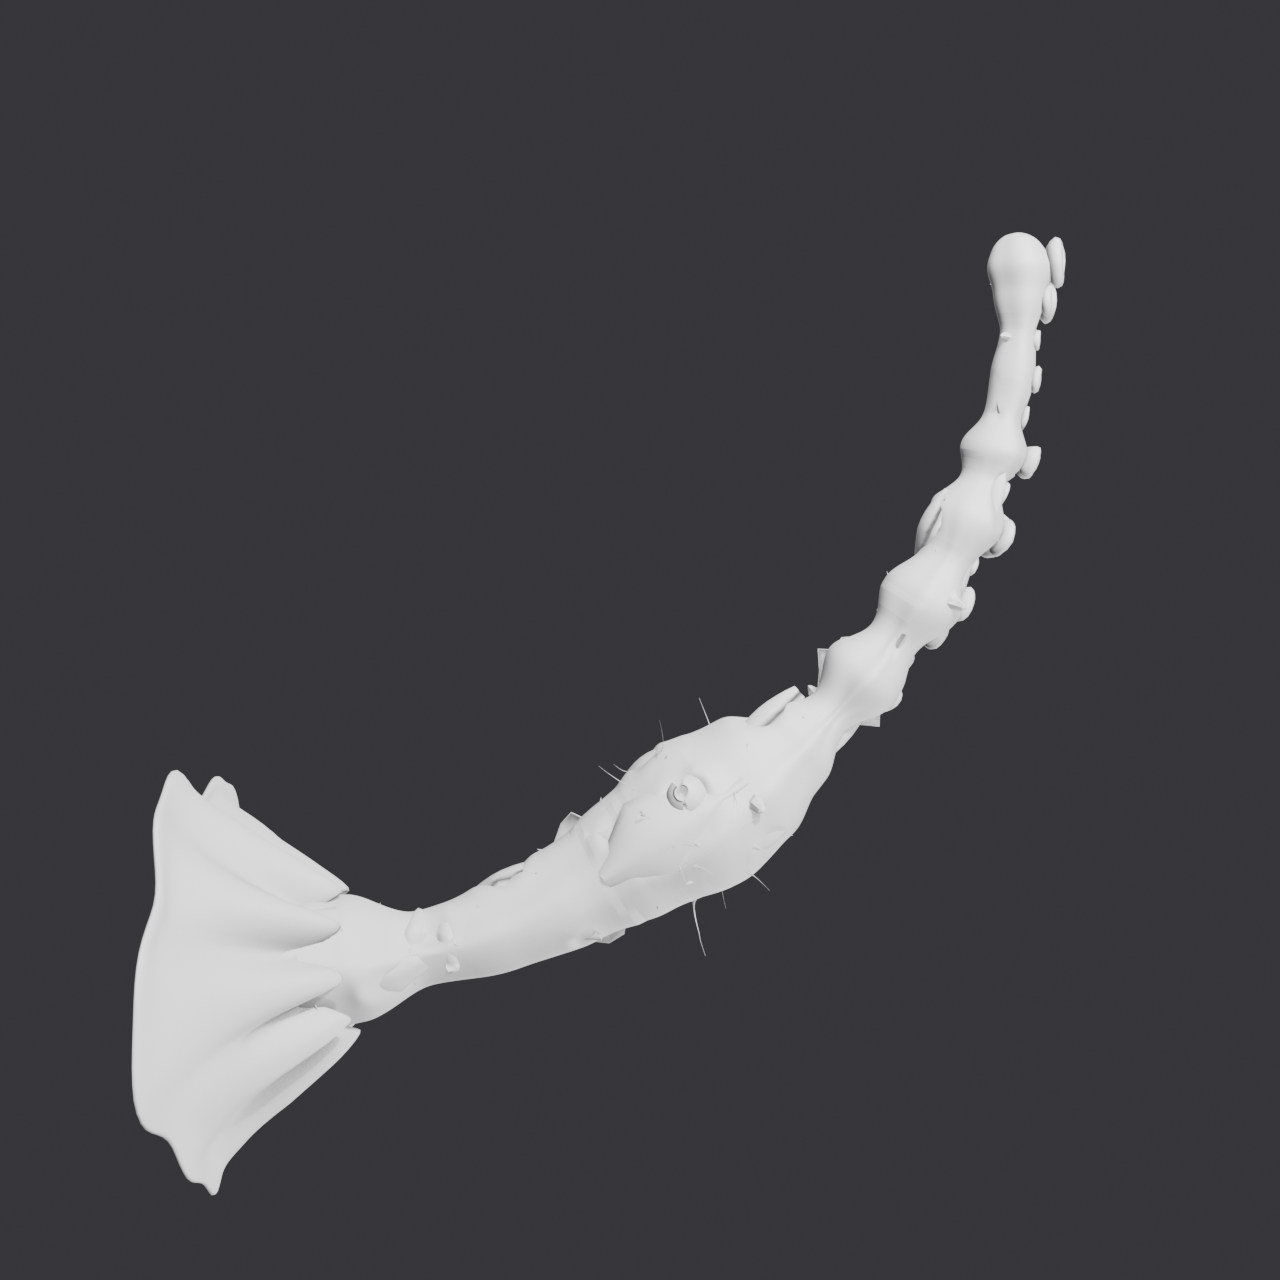
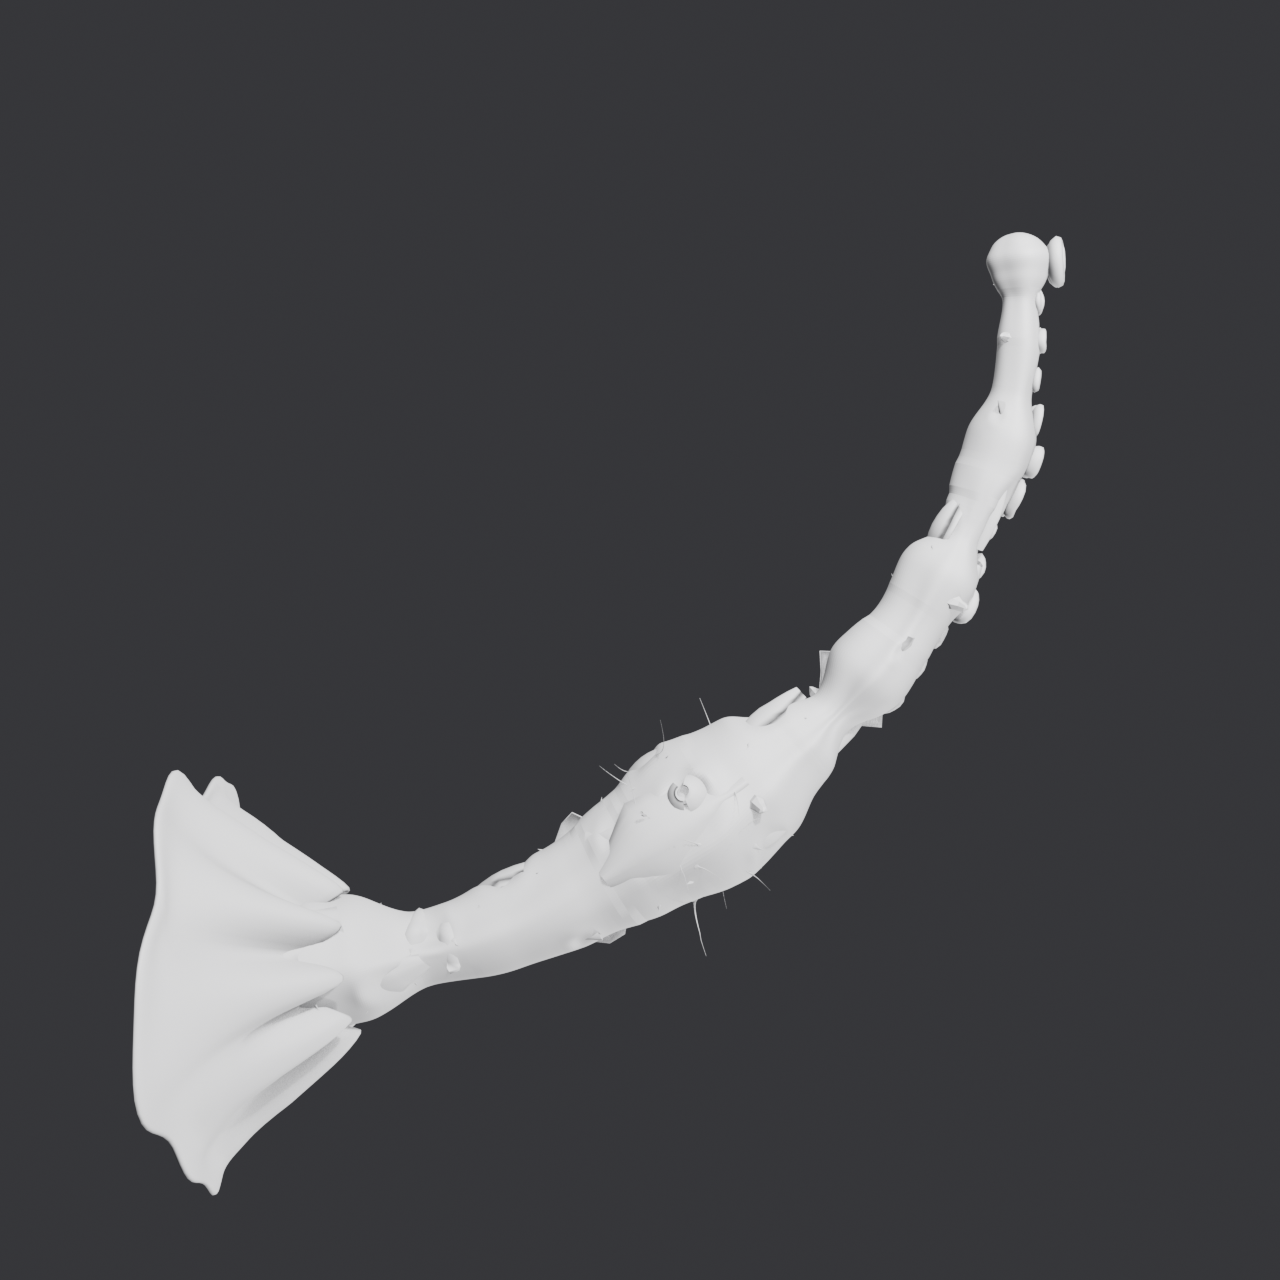
Re-author the distal third so it stops reading as a bead stack
The posed grey test showed the last third of the limb as a row of
discrete beads rather than flesh. The cause was not a sculpt pass but the
profile table itself: from v 0.56 to 0.85 it ran pinch/swell/pinch/swell
six times at even spacing and near-identical amplitude -- a regular
corrugation, which is the exact thing sculpt_forms() warns against two
hundred lines further down the same file.

Same feature count, but the spacing and the depth now vary widely: one
real narrow, one knuckle, and everything else a modulation of the taper.
The silhouette reads as root flare, ocular mass, tapering shaft, club.

diff --git a/art/blender/scripts/build_dream_tentacle.py b/art/blender/scripts/build_dream_tentacle.py
@@ -57,19 +57,25 @@ PROFILE = [
     (0.470, 0.092, 0.16, -0.10, 0.60),  # its shoulder falling away
     (0.520, 0.064, 0.30, -0.02, 0.70),
     (0.560, 0.038, 0.58, 0.02, 0.82),   # the flattened RIBBON: a real pinch
-    (0.600, 0.058, 0.30, 0.05, 0.90),   # and the swell after it
-    (0.640, 0.036, 0.40, 0.02, 0.99),   # ribbed: pinch
-    (0.680, 0.057, 0.20, -0.02, 1.07),  #         swell
-    (0.720, 0.034, 0.34, 0.02, 1.16),   #         pinch
-    (0.758, 0.053, 0.16, -0.03, 1.24),  #         swell
-    (0.792, 0.030, 0.26, 0.02, 1.32),   # the knuckle's waist
-    (0.818, 0.048, 0.10, -0.04, 1.38),  # the knuckle
-    (0.848, 0.026, 0.18, 0.02, 1.44),   # the narrowing: dexterous
-    (0.884, 0.030, 0.08, 0.00, 1.50),
-    (0.918, 0.024, 0.12, 0.00, 1.55),
-    (0.948, 0.036, 0.05, -0.03, 1.60),  # the club begins
-    (0.972, 0.046, 0.02, -0.05, 1.63),  # the sensory CLUB, flared
-    (0.990, 0.034, 0.00, 0.00, 1.65),
+    # THE DISTAL THIRD, RE-AUTHORED. It used to run pinch/swell/pinch/swell
+    # six times at even spacing and near-identical amplitude, which is a
+    # regular corrugation -- the exact thing sculpt_forms() warns against two
+    # hundred lines below -- and in the posed grey test it read as a STACK OF
+    # BEADS rather than flesh. Same number of features, but the spacing and
+    # the depth now vary a lot: one real narrow, one knuckle, and everything
+    # else a modulation of the taper rather than another bead.
+    (0.604, 0.059, 0.30, 0.05, 0.90),   # the swell after the ribbon
+    (0.663, 0.047, 0.34, 0.02, 1.00),   # a shallow waist, not a bead
+    (0.706, 0.055, 0.18, -0.02, 1.08),  # a broad, soft swelling
+    (0.742, 0.031, 0.40, 0.03, 1.15),   # THE narrow: the one real pinch here
+    (0.800, 0.046, 0.14, -0.02, 1.26),  # a long easy rise out of it
+    (0.828, 0.049, 0.10, -0.04, 1.33),  # the knuckle, barely distinct from it
+    (0.870, 0.027, 0.20, 0.02, 1.42),   # the narrowing: dexterous
+    (0.910, 0.029, 0.08, 0.00, 1.50),
+    (0.945, 0.023, 0.10, 0.00, 1.56),
+    (0.962, 0.037, 0.04, -0.03, 1.60),  # the club begins
+    (0.978, 0.047, 0.02, -0.05, 1.63),  # the sensory CLUB, flared
+    (0.992, 0.033, 0.00, 0.00, 1.65),
     (1.000, 0.012, 0.00, 0.00, 1.66),
 ]
 

diff --git a/art/renders/dream_tentacle/blender_grey_posed/README.md b/art/renders/dream_tentacle/blender_grey_posed/README.md
@@ -82,10 +82,19 @@ Two shots were added, because faults hide in the angles you do not take:
 every profile shot sees it edge-on) and a corrected `09_root`, which at 0.55 m
 had been filling the frame with featureless white.
 
-## Standing faults in these frames
+## The distal third, re-authored
 
-- The distal third reads as a **stack of discrete beads** rather than
-  continuous flesh with swellings in it.
+It read as a stack of discrete beads, and the cause was in the profile table
+rather than in any sculpt pass: from v 0.56 to 0.85 it ran pinch / swell /
+pinch / swell six times at even spacing and near-identical amplitude. That is
+a regular corrugation — the exact thing `sculpt_forms()` warns against two
+hundred lines further down the same file.
+
+Same number of features, but the spacing and depth now vary widely: one real
+narrow, one knuckle, and everything else a modulation of the taper rather than
+another bead. It reads as a limb with a club on the end now.
+
+## Standing faults in these frames
 - Gold plates read as thin flat shards when seen edge-on.
 - §13 also asks the membrane for **gold anchors and crystal nodules**. It has
   neither yet.
